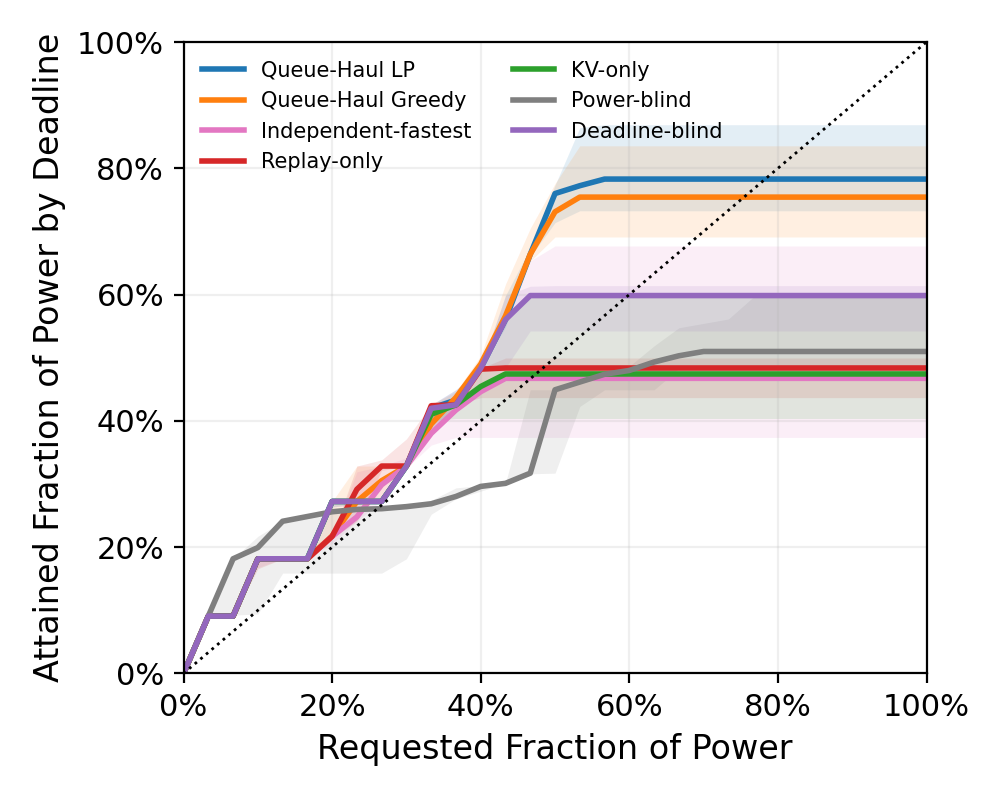
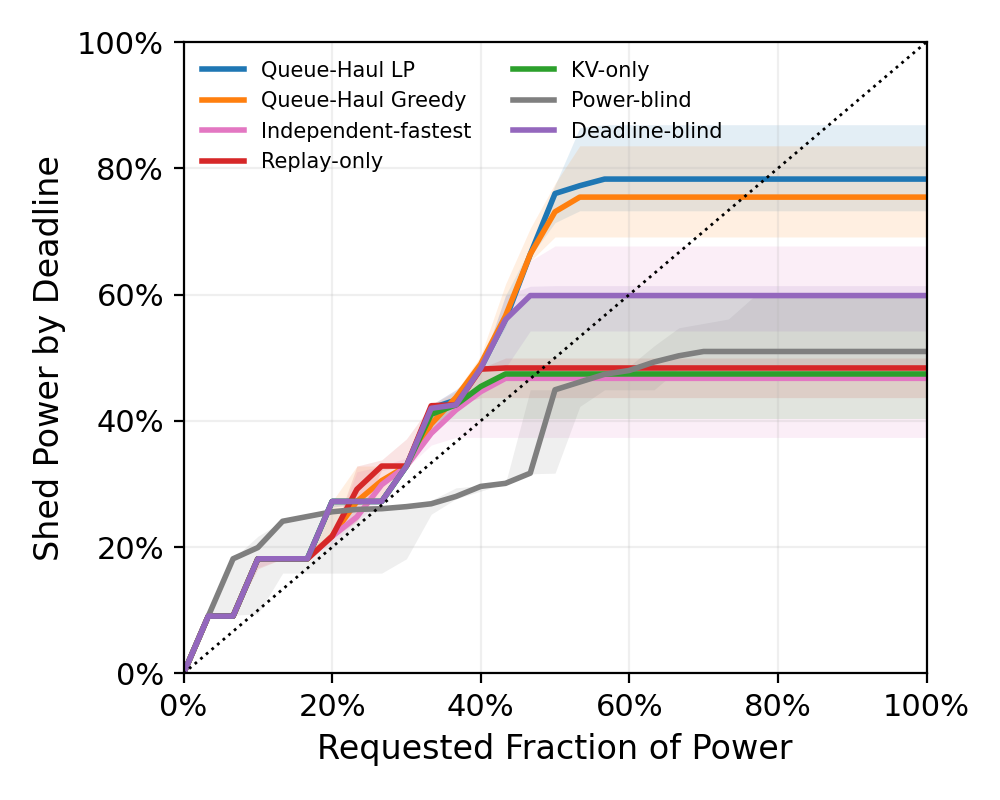
Clarify shed power frontier axis

Changed region(s): [[0.031, 0.0312, 0.062, 0.8438]]

diff --git a/agent-migrate/queue-haul/plot_pooled_shed_frontier.py b/agent-migrate/queue-haul/plot_pooled_shed_frontier.py
@@ -101,7 +101,7 @@ def write_plot(summary, out: Path) -> None:
     axis.plot((0, 1), (0, 1), color="black", linestyle=":", linewidth=1)
     axis.set(xlim=(0, 1), ylim=(0, 1),
              xlabel="Requested Fraction of Power",
-             ylabel="Attained Fraction of Power by Deadline")
+             ylabel="Shed Power by Deadline")
     axis.xaxis.set_major_formatter(PercentFormatter(1))
     axis.yaxis.set_major_formatter(PercentFormatter(1))
     axis.tick_params(labelsize=11)
